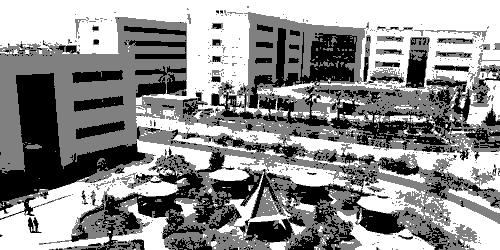
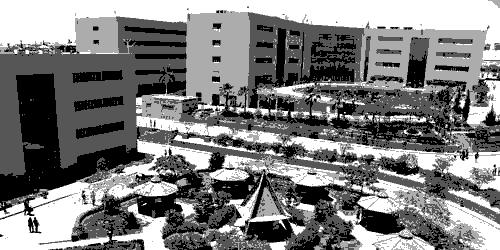
Adding the return of the thereshold array and fixing sort issue

diff --git a/Segmentation-Computer-Vision.py b/Segmentation-Computer-Vision.py
@@ -46,7 +46,7 @@ def detect_objects(org_image, n) :
     #Using Random initialization for n theresholds
     for i in range(n) :
         thereshold_array[i] = random.randint(0,255)
-    np.sort(thereshold_array)
+    thereshold_array = np.sort(thereshold_array,axis=None)
     print(thereshold_array)
     org_image_array = np.array(org_image)
     object_detection_img = np.zeros(org_image_array.shape[0]*org_image_array.shape[1]).reshape(org_image_array.shape[0], org_image_array.shape[1])
@@ -79,11 +79,12 @@ def detect_objects(org_image, n) :
     segmented_image_array = generate_gray_segmented_image(object_detection_img, thereshold_array)
     segmented_image = Image.fromarray(segmented_image_array)
     segmented_image = segmented_image.convert("L")
-    return segmented_image
+    return segmented_image, thereshold_array
     
 image_filepath = "GUC"
 org_image = Image.open(image_filepath + ".jpg")
-segmented_image = detect_objects(org_image, 2)                
+segmented_image, thereshold_array = detect_objects(org_image, 3)
+print(thereshold_array)                
 segmented_image.save(image_filepath + "_segmented image.jpg")
 
 #detect_objects(None,4)
